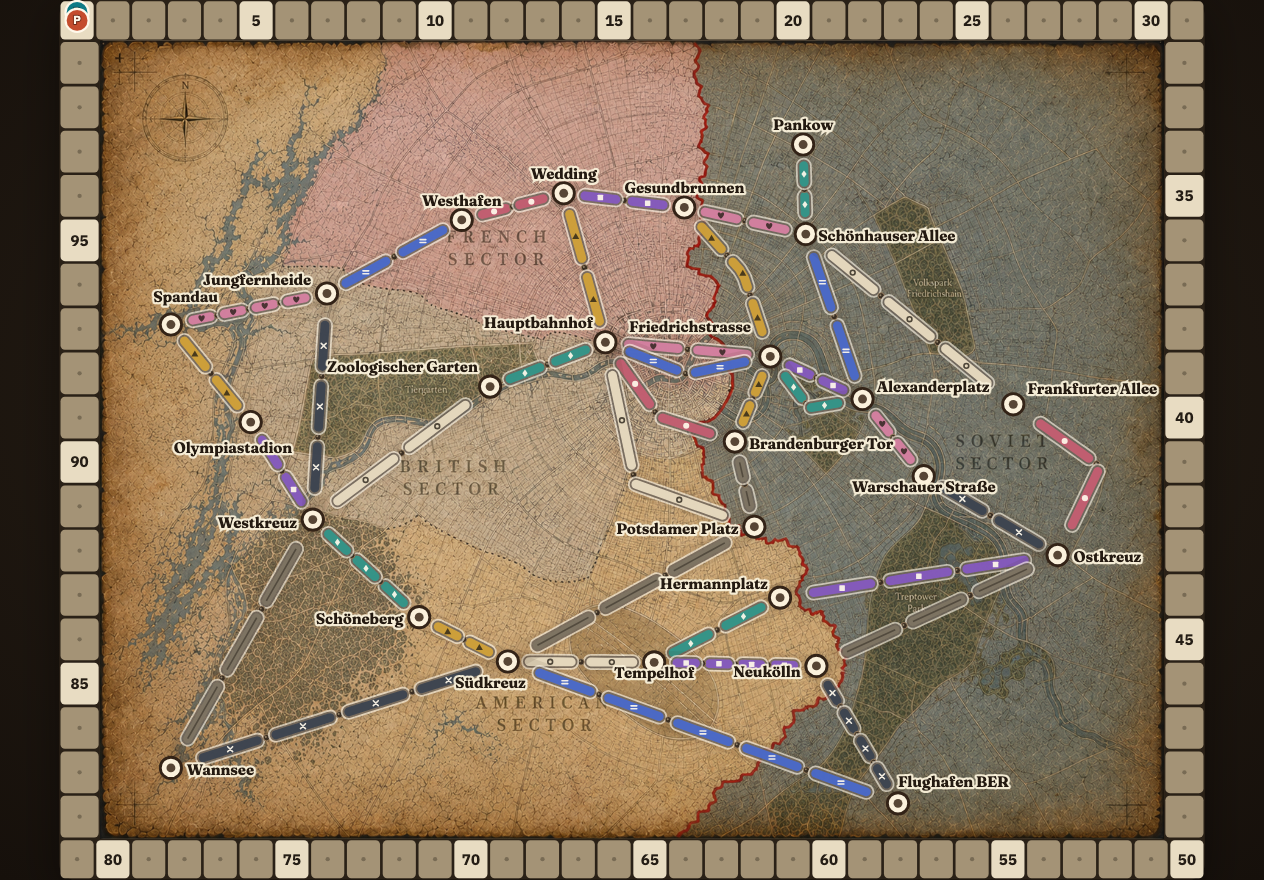
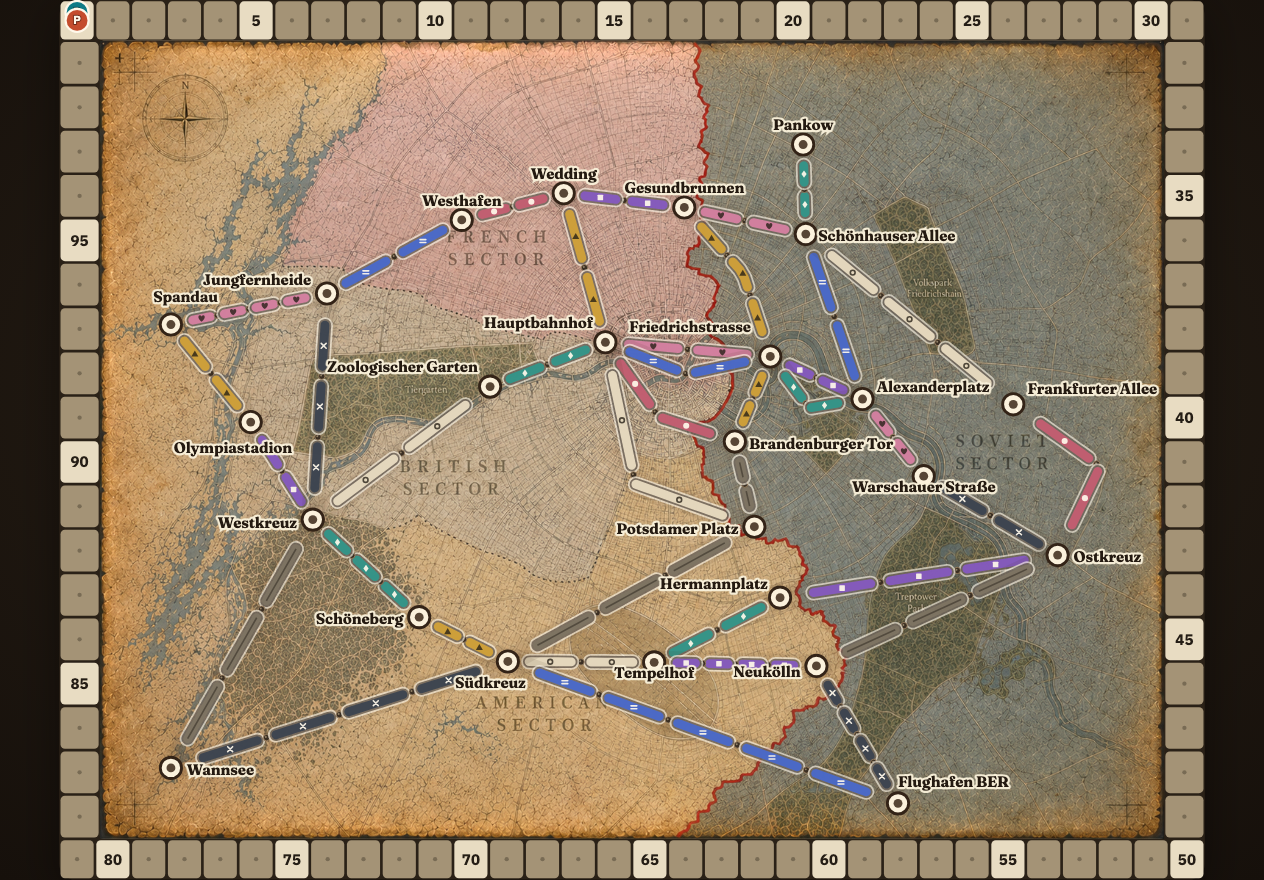
fix(maps): lighten Berlin's edges; clear two New York labels
Berlin uses basemap v5: the same picture as v4 with the dark vignette mostly
lifted and the sheet slightly lighter, closer to the New York board. On New
York the ferry to Red Hook bows further south so it no longer touches the
Downtown Brooklyn name, and the Red Hook name moves off the ferry's end.

Changed region(s): [[0.0617, 0.0307, 0.9256, 0.9511]]

diff --git a/configs/hudson-hustle/releases/berlin/notes.md b/configs/hudson-hustle/releases/berlin/notes.md
@@ -93,3 +93,4 @@
 - Every route typed `Border Crossing` now crosses the wall on the board. Two did not and are typed `normal`: `friedrichstrasse-brandenburger-tor` and `potsdamer-platz-brandenburger-tor` (neither had a locomotive cost).
 - Hauptbahnhof, Friedrichstrasse, Alexanderplatz and Frankfurter Allee moved a little so the core routes no longer stack; `frankfurter-allee-ostkreuz` bends east so it no longer covers the sector lettering.
 - Station names are written in full with umlauts on both the board and the tickets.
+- Basemap `berlin-cold-war-reference-v5.png`: the same picture as v4 with the dark vignette at the edges mostly lifted and the whole sheet a little lighter, so it sits closer to the New York board.
